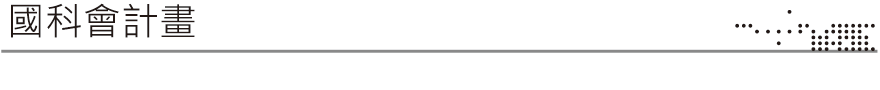
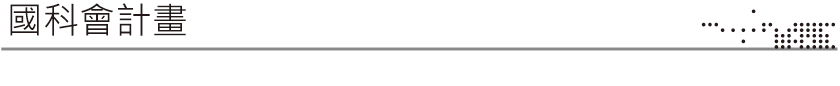
頁首背景的圖片縮小和計畫圖片縮小及調整

diff --git a/styles/header.css b/styles/header.css
@@ -19,12 +19,12 @@ i {
 
 .main_container {
 	margin:0 auto;
-  width:880px;
+  width:840px;
 }
 
 body > header {
 	height:80px;
-	width:880px;
+	width:840px;
 	margin:0 auto;
 	margin-top:80px;
 	margin-bottom:30px;
@@ -41,7 +41,7 @@ body > header {
 .page_title {
 	font-family:"華康儷中宋";
 	font-size:40px;
-	margin-top:38px;
+	margin-top:33px;
 }
 
 .STU {
@@ -55,9 +55,9 @@ body > header {
 	background-image:url("../image/header.png");
 	background-repeat:no-repeat;
 	float:right;
-	width:780px;
-	height:140px;
-	margin-top:-36px;
+	width:740px;
+	height:121px;
+	margin-top:-30px;
 	margin-right:5px;
 }
 

diff --git a/styles/project.css b/styles/project.css
@@ -28,7 +28,7 @@
 }
 
 .data p {
-	width:780px;
+	width:740px;
 	font-weight:bold;
 	line-height:18px;	
 	margin-left:115px;

diff --git a/styles/report.css b/styles/report.css
@@ -35,7 +35,6 @@
 }
 
 .data p {
-	width:780px;
+	width:820px;
 	line-height:18px;	
-	margin-left:75px;
 }

diff --git a/styles/award.css b/styles/award.css
@@ -6,6 +6,7 @@
 
 .point {
 	margin-left:40px;
+	margin-top:15px;
 }
 
 .content {

diff --git a/styles/license.css b/styles/license.css
@@ -6,6 +6,7 @@
 
 .point {
 	margin-left:30px;
+	margin-top:15px;
 }
 
 .content {
